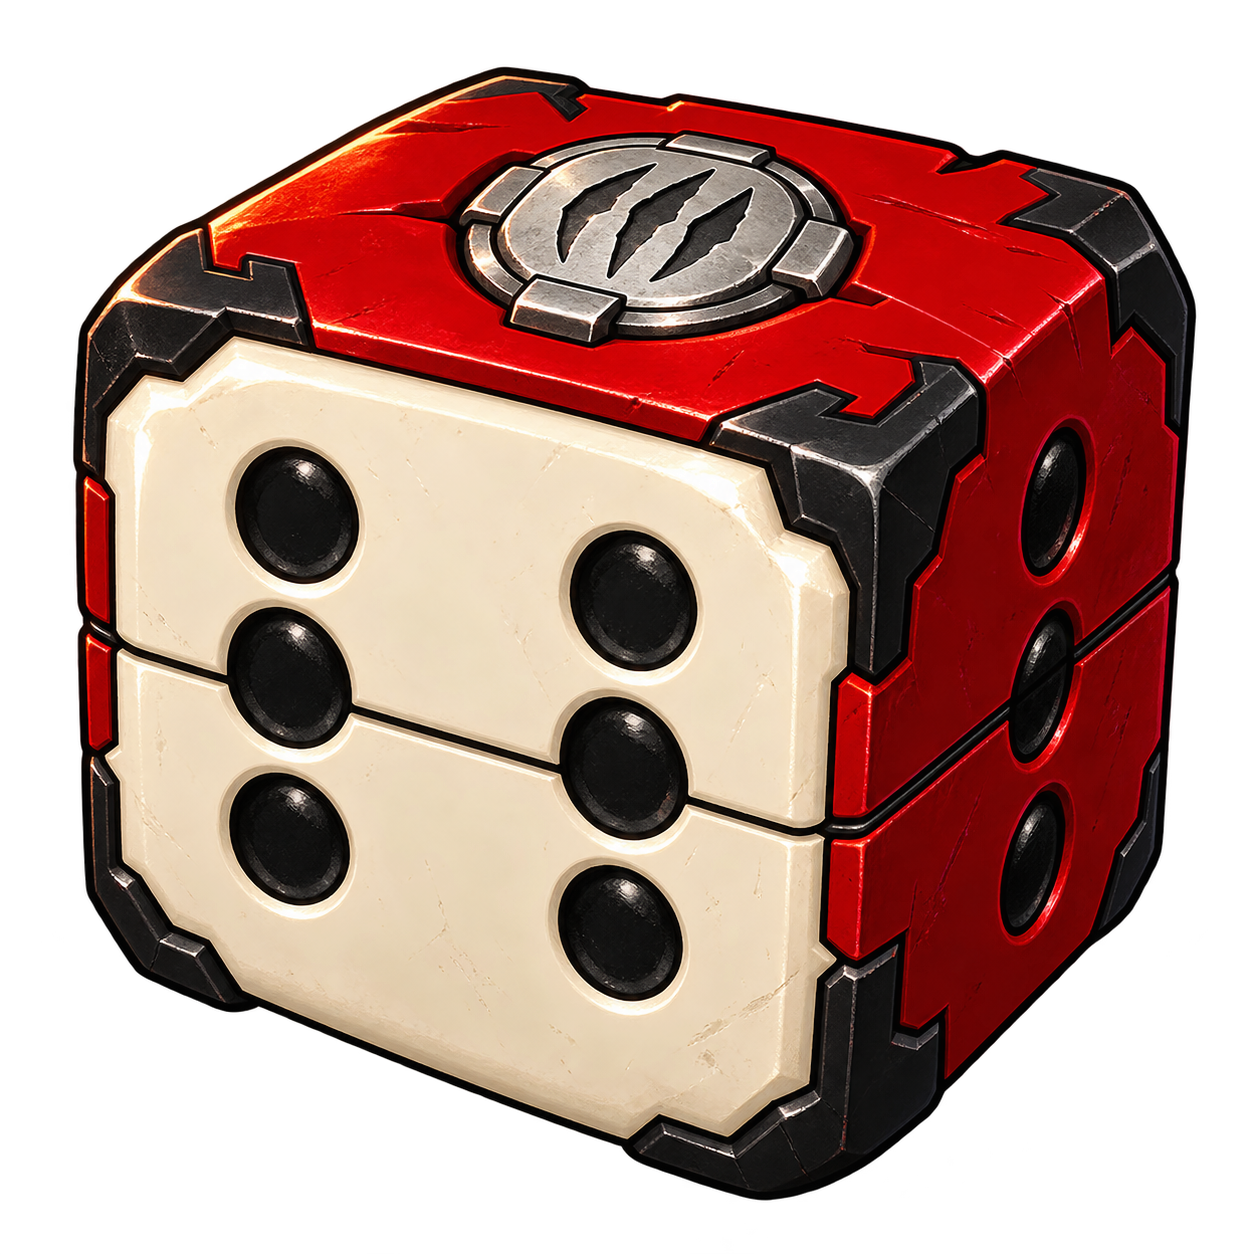
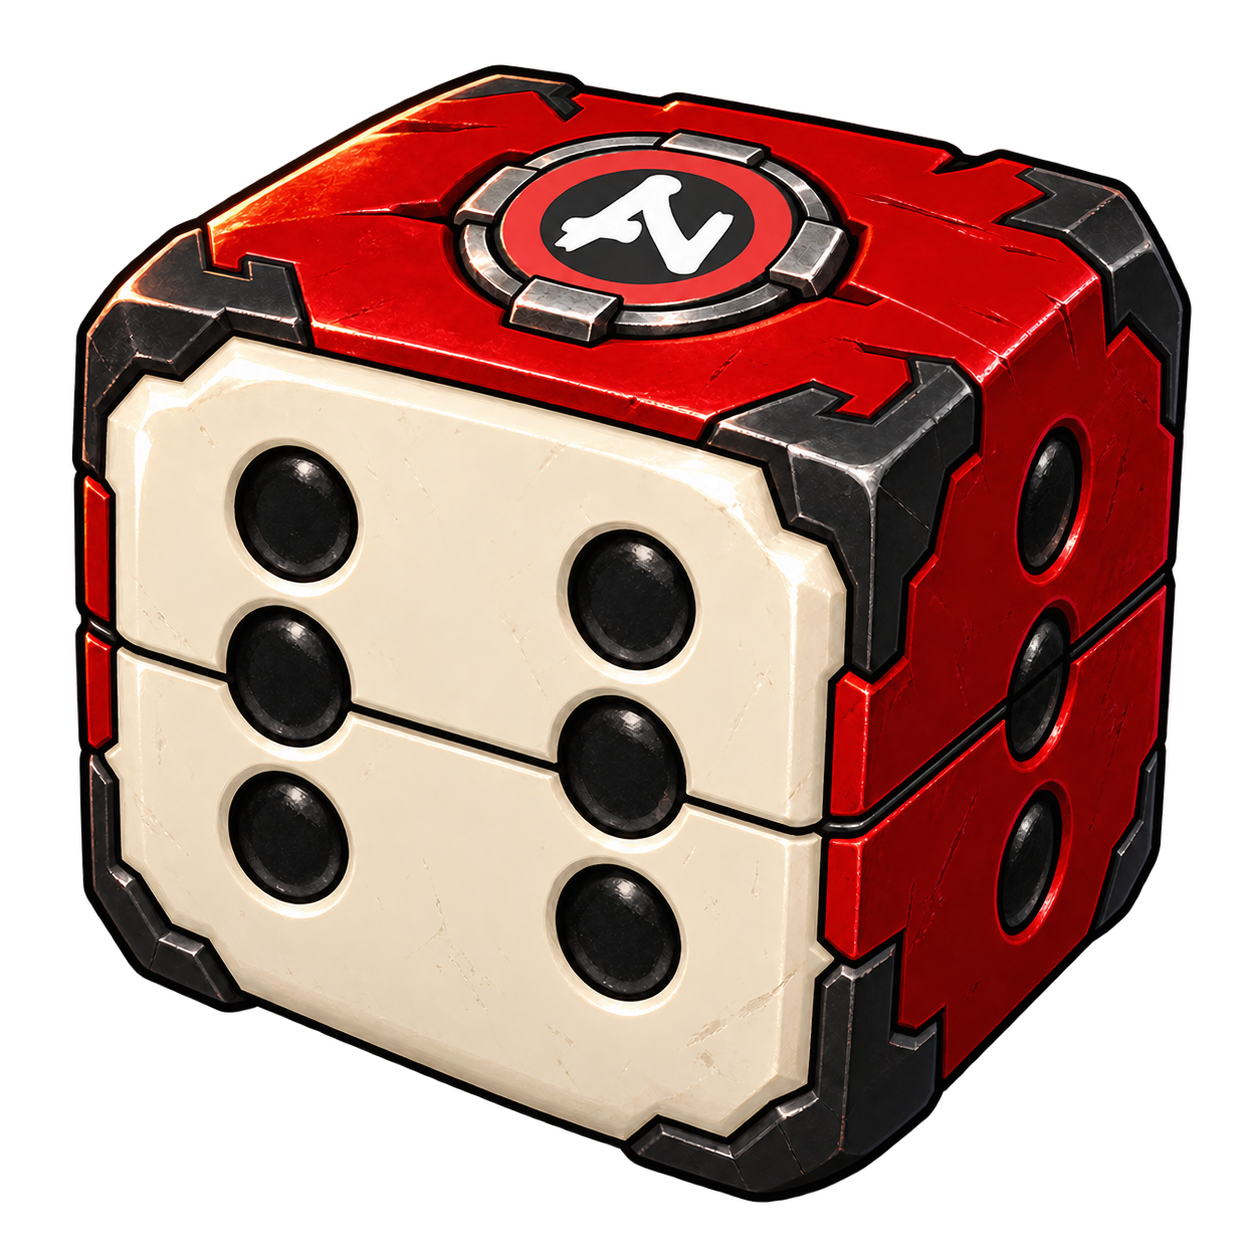
fix: refine capture dice emblem and split, exclude dice from battles

diff --git a/src/components/transitions/__tests__/SceneTransitionOverlay.test.tsx b/src/components/transitions/__tests__/SceneTransitionOverlay.test.tsx
@@ -1,0 +1,44 @@
+import { renderToStaticMarkup } from 'react-dom/server'
+import { describe, expect, it, vi } from 'vitest'
+import type { SceneId } from '@/types'
+import { assetUrl } from '@/utils/assetUrl'
+import { SceneTransitionOverlay } from '../SceneTransitionOverlay'
+import { getSceneTransitionProfile, TRANSITION_VIDEO_PATH } from '../sceneTransitionProfiles'
+
+function overlayMarkup(scena: SceneId, phase: 'cover' | 'reveal', startCovered = false) {
+  return renderToStaticMarkup(
+    <SceneTransitionOverlay
+      phase={phase}
+      startCovered={startCovered}
+      profile={getSceneTransitionProfile({ scena })}
+      onCovered={vi.fn()}
+      onRevealed={vi.fn()}
+    />,
+  )
+}
+
+describe('scene transition artwork selection', () => {
+  it.each(['cover', 'reveal'] as const)('never mounts a die at battle entry during %s', (phase) => {
+    for (const startCovered of [false, true]) {
+      const markup = overlayMarkup('battaglia', phase, startCovered)
+      expect(markup).toContain('data-transition-mode="battle-video"')
+      expect(markup).toContain('<video')
+      expect(markup).toContain(`src="${assetUrl(TRANSITION_VIDEO_PATH)}"`)
+      expect(markup).toContain('data-ready="false"')
+      expect(markup).not.toContain('data-transition-artwork')
+      expect(markup).not.toContain('arkamon-d6-closed.webp')
+      expect(markup).not.toContain('arkamon-d6-open.webp')
+      expect(markup).not.toContain('arka-d6-board')
+      expect(markup).not.toContain('arka-d6-fallback')
+    }
+  })
+
+  it.each(['mappa-principale', 'evoluzione'] as const)('retains both D6 poses for %s', (scena) => {
+    const markup = overlayMarkup(scena, 'cover')
+    expect(markup).toContain('data-transition-mode="arkamon-dice"')
+    expect(markup).toContain('data-transition-artwork="arkamon-d6"')
+    expect(markup).toContain('arkamon-d6-closed.webp')
+    expect(markup).toContain('arkamon-d6-open.webp')
+    expect(markup).not.toContain('<video')
+  })
+})

diff --git a/src/components/transitions/SceneTransitionLab.tsx b/src/components/transitions/SceneTransitionLab.tsx
@@ -102,7 +102,11 @@ export function SceneTransitionLab() {
           {!active && !showDestination ? (
             <div className="absolute inset-0 flex flex-col items-center justify-center gap-2 bg-slate-950/70 p-4">
               <img src={assetUrl('/ui/logo_arkamon.png')} alt="Arkamon" className="h-auto w-52 max-w-[55%] object-contain sm:w-72" />
-              <img src={assetUrl('/ui/transitions/arkamon-d6-closed.webp')} alt="Dado D6 cremisi e nero" className="h-auto w-36 max-w-[35%] object-contain sm:w-56" />
+              {choice === 'battle' ? (
+                <p className="px-4 py-6 text-5xl font-black italic text-red-300 sm:text-7xl">VS</p>
+              ) : (
+                <img src={assetUrl('/ui/transitions/arkamon-d6-closed.webp')} alt="Dado D6 cremisi e nero" className="h-auto w-36 max-w-[35%] object-contain sm:w-56" />
+              )}
             </div>
           ) : (
             <div className="absolute bottom-0 left-0 right-0 space-y-1 p-5 sm:p-8">
@@ -125,7 +129,7 @@ export function SceneTransitionLab() {
           ) : null}
         </div>
 
-        <p className="text-xs leading-relaxed text-slate-400">Il D6 custodisce la forza degli Arkamon e accompagna ogni nuova tappa. L’ingresso in battaglia conserva il video dedicato. L’anteprima non avvia una partita.</p>
+        <p className="text-xs leading-relaxed text-slate-400">Il D6 custodisce la forza degli Arkamon e accompagna le mappe e le schermate. L’ingresso in battaglia usa esclusivamente il video VS dedicato, con una breve copertura scura durante il caricamento. L’anteprima non avvia una partita.</p>
       </div>
     </main>
   )

diff --git a/src/components/transitions/__tests__/transitionArtwork.test.ts b/src/components/transitions/__tests__/transitionArtwork.test.ts
@@ -11,9 +11,18 @@ interface PoseProvenance {
   original_sha256: string
   runtime_sha256: string
 }
-const provenance = JSON.parse(readFileSync(join(process.cwd(), 'art-source/transitions/arkamon-d6/provenance.json'), 'utf8')) as { poses: PoseProvenance[] }
+const provenance = JSON.parse(readFileSync(join(process.cwd(), 'art-source/transitions/arkamon-d6/provenance.json'), 'utf8')) as {
+  reference: { path: string; sha256: string }
+  poses: PoseProvenance[]
+}
 
 describe('Arkamon capture D6 artwork', () => {
+  it('preserves the supplied emblem source alongside the paired artwork', () => {
+    const reference = readFileSync(join(process.cwd(), provenance.reference.path))
+    expect(createHash('sha256').update(reference).digest('hex')).toBe(provenance.reference.sha256)
[1 lines of base64/hex data omitted]
+  })
+
   it('retains distinct open and closed poses with their unmodified generated originals', () => {
     expect(provenance.poses.map((pose) => pose.pose).sort()).toEqual(['closed', 'open'])
     expect(new Set(provenance.poses.map((pose) => pose.runtime_sha256)).size).toBe(2)

diff --git a/src/components/transitions/SceneTransitionOverlay.tsx b/src/components/transitions/SceneTransitionOverlay.tsx
@@ -32,6 +32,7 @@ export function SceneTransitionOverlay({ phase, profile, startCovered, onCovered
     setFinishRequested(true)
   }, [])
   const videoFailed = useCallback(() => {
+    if (videoTerminal.current) return
     videoTerminal.current = true
     videoRef.current?.pause()
     setVideoReady(false)
@@ -90,7 +91,7 @@ export function SceneTransitionOverlay({ phase, profile, startCovered, onCovered
       style={style}
       aria-hidden="true"
     >
-      <ArkamonDiceArtwork />
+      {profile.mode === 'arkamon-dice' ? <ArkamonDiceArtwork /> : null}
       {profile.mode === 'battle-video' ? (
         <video
           ref={videoRef}

diff --git a/src/components/transitions/sceneTransitions.css b/src/components/transitions/sceneTransitions.css
@@ -28,7 +28,6 @@
 }
 
 .arka-scene-transition__video[data-ready='true'] { opacity: 1; }
-.arka-scene-transition[data-video-ready='true'] .arka-d6-artwork { visibility: hidden; }
 
 .arka-d6-artwork { position: absolute; inset: 0; }
 

diff --git a/art-source/transitions/arkamon-d6/prompts.md b/art-source/transitions/arkamon-d6/prompts.md
@@ -1,17 +1,22 @@
-# Dado di Arkamon — prompt di generazione
+# D6 Arkamon — simbolo fornito e apertura centrale
 
-Modalità: tool integrato `image_gen`, sfondo trasparente. Riferimento di palette e stile: logo ufficiale in `public/ui/logo_arkamon.png`, senza modificarlo.
+Modalità: generatore integrato image_gen, due modifiche successive dell'illustrazione, RGBA trasparente. Il simbolo fornito è conservato senza modifiche come reference-symbol.png. La normalizzazione automatica conserva il disegno.
 
-Use case: stylized-concept.
+## Posa chiusa: sostituzione del sigillo
 
-Asset type: production transparent 2D game transition hero sprite for Arkamon, a creature-collecting board game where encounters and combat use D6 dice. Create one polished, iconic physical D6 that also suggests a creature-capture device.
+Use case: precise-object-edit / compositing.
+Asset type: transparent RGBA game sprite, CLOSED pose of an existing Arkamon capture D6.
+Image 1 is the EDIT TARGET: preserve the exact physical crimson-and-charcoal cubic die, ivory front face with six black recessed pips in two columns of three, right face three pips, materials, proportions, lighting, perspective, camera and horizontal black midline seam.
+Image 2 is a supplied SYMBOL INSERT, not a style reference: faithfully reproduce this exact circular emblem, a crimson outer ring, black disk, and its distinctive white handwritten intertwined AN glyph. Replace ONLY the three claw scratches on the top metal medallion with that emblem. Seat it naturally on the existing circular metal clasp in perspective, keeping a slim silver frame. The white glyph must have the same shape as image 2, no claws and no invented letters.
+The cube remains completely CLOSED with the original seam in its middle. Do not move the seam upward. Change nothing else. All six front pips and three side pips remain as in target. Preserve simple readable silhouette and hand-painted stylized 3D videogame prop quality.
+One isolated centered die, square transparent canvas, full object with clear transparent margin, no cut corners, no floor or background, no new shadows outside the object, no text, numbers, VS, watermarks, neon rings or particles. Genuine RGBA transparency.
 
-Primary subject: a single large six-sided die in three-quarter view, front face and top and right face visible. Chunky beveled cubic silhouette, porcelain ivory front face with EXACTLY six recessed black pips arranged as two vertical columns of three. The upper shell is deep crimson red and edges are charcoal black, in the jagged bold red-and-black spirit of the attached Arkamon logo reference. On the TOP face place a small silver circular capture clasp with a subtle embossed three-claw creature motif. The RIGHT side has three recessed black pips. A thin mechanical seam runs horizontally around the cube, suggesting the cube can open like a capture capsule. It must be immediately readable both as a D6 and a creature capture device, without looking like a standard spherical Pokeball. Maintain clean simple silhouette readable at 200px.
+## Posa aperta: separazione in due metà sulla linea nera originale
 
-Style: high quality stylized videogame prop, hand-painted 3D look, crisp dark outlines, dramatic but restrained warm highlights, convincing depth, tactile painted metal and ivory enamel, premium collectible board-game object. No neon portal, no abstract energy rings.
-
-Composition: one isolated die centered on a SQUARE transparent canvas, fills about 70 percent of canvas width and height, ample clean transparent margin on all sides, no cropped corners. Front face points almost toward viewer with a slight top-down angle. No floating debris, no background, no ground plane or cast floor shadow, no lettering, no numbers, no VS text, no watermark. Genuine RGBA transparency, not a checkerboard graphic. The reference image is only a palette and brand-style reference; do not modify the logo or paste its entire word onto the die.
-
-## Posa aperta — modifica dell'immagine generata
-
-Use case: precise-object-edit. Asset type: second key pose of the same Arkamon D6 transition sprite, transparent RGBA. The supplied image is the edit target. Preserve this exact red-and-black creature-capture D6 identity, hand-painted stylized 3D quality, ivory enamel face, front EXACTLY six black pips, right three pips, silver three-claw medallion on the crimson top, camera angle, scale, proportions and material detail. Change only the opening state: the cube's existing upper half lifts upward a short distance along its existing mechanical horizontal seam, revealing a narrow luminous warm white/crimson interior gap like a capture capsule opening. Keep the lower half stationary and same position. Keep upper half fully aligned over lower half, without tilting, warping or rotating. No floating debris, no scene/background, no floor shadow, no text/numbers, no VS, no watermark, genuine transparent background. Square canvas with 8 percent clear transparent margin on every side; don't crop the lifted lid. Keep this readable as the same D6 in an opened mechanical pose, not a sphere and not a different prop.
+Use case: precise-object-edit.
+Asset type: OPEN key pose for the same physical Arkamon D6, RGBA transparency.
+Image 1 is the CLOSED EDIT TARGET with the new circular red/black/white symbol. Image 2 is the symbol reference, preserve that exact emblem on the top clasp.
+Change ONLY the opening state. The entire die MUST separate into TWO EQUAL-HEIGHT HALVES at the EXISTING BLACK HORIZONTAL MIDLINE SEAM visible across the middle of the ivory front face and right red face of image 1. The line passes across the middle row of pips. This is NOT a lid at the top quarter, NOT a cut below only the first row of pips, NOT a new extra seam. The upper block is a full HALF of the original cube including the red top, the top pips and upper portions of the middle pips. The lower block is a full HALF of the original cube including lower portions of the middle pips and the bottom pips. The middle-row circular indentations can be visibly bisected by the parting plane, like the existing black seam. Do not create or duplicate pips to hide the split.
+Lift the UPPER HALF straight up just a short distance (about 8% of original cube height), while keeping the lower half stationary and both halves aligned with the same perspective and cube footprint. A narrow warm ivory/crimson illuminated mechanical interior gap should appear precisely where the existing central black line was. The lower block must NOT retain another black seam lower down: the one original seam becomes the open gap. Maintain one obvious halfway split, exactly two rigid equal-height pieces.
+Preserve the SAME camera, three-quarter view, crimson red and charcoal corners, ivory enamel front, textured materials, warm lighting, silhouette and exact top emblem of image 1. This is a paired animation key pose, so keep the bottom and sides in the same position and scale, only the upper HALF moves. Preserve total front six pips and right three pips, counting any bisected middle pips as the original single pips. Do not repaint the emblem or turn the cube into a spherical device.
+One isolated die on square genuine transparent background, ample clear margin, full raised half visible, no clipped parts, no floating debris, ground, scene, captions, watermarks, VS or glow outside the seam.

diff --git a/docs/scene-transitions.md b/docs/scene-transitions.md
@@ -1,6 +1,6 @@
 # Transizioni Arkamon: il D6 custodisce la creatura
 
-La transizione tra scene usa un oggetto riconoscibile: un dado D6 cremisi e nero, con sei punti sulla faccia chiara e un sigillo ad artigli sul coperchio. Il dado entra con un lancio, rimbalza, si assesta e si apre. Un breve bagliore accompagna il logo ufficiale e l'arrivo alla nuova scena. Il percorso a caselle sullo sfondo collega l'oggetto all'esplorazione da boardgame.
+La transizione tra scene usa un oggetto riconoscibile: un dado D6 cremisi e nero, con sei punti sulla faccia chiara e il simbolo circolare fornito dall'utente sul medaglione superiore (anello rosso, centro nero e segno bianco). Il dado entra con un lancio, rimbalza, si assesta e si apre esattamente lungo la linea nera centrale originale. Si solleva l'intera metà superiore; le fossette attraversate dalla linea vengono divise tra le due metà, senza un secondo taglio più in alto. Un breve bagliore accompagna il logo ufficiale e l'arrivo alla nuova scena. Il percorso a caselle sullo sfondo collega l'oggetto all'esplorazione da boardgame.
 
 Il movimento è decorativo: non estrae risultati, non consuma dadi o turni e non cambia lo stato della partita. Il simbolo unisce i due elementi del gioco: le creature custodite e il viaggio guidato dai D6.
 
@@ -12,7 +12,7 @@ La versione ibernata non appare nemmeno come riserva in caso di errore del video
 
 ## Illustrazioni e risorse
 
-Le due pose sono state create con il generatore di immagini integrato. Gli originali, i prompt completi e la provenienza sono in [art-source/transitions/arkamon-d6](../art-source/transitions/arkamon-d6/prompts.md). La normalizzazione conserva il disegno: proporzione originale, margini trasparenti su una tela 1024 × 1024 e WebP senza perdita.
+Le due pose sono state modificate con il generatore di immagini integrato. Gli originali, i prompt completi, il riferimento del simbolo conservato senza modifiche e la provenienza sono in [art-source/transitions/arkamon-d6](../art-source/transitions/arkamon-d6/prompts.md). La normalizzazione conserva il disegno: stesso fattore di scala per entrambe le pose, margini trasparenti su una tela 1024 × 1024 e WebP senza perdita.
 
 Le risorse usate dal gioco sono:
 
@@ -28,7 +28,7 @@ Il coordinatore delle scene mantiene l'ultima scena presentata durante la copert
 
 - Mappe, città, laboratorio, deposito e schermate: D6, circa 1,84 secondi complessivi.
 - Evoluzione: stesso D6, circa 2,14 secondi, leggero aumento della luminosità senza cambiare il colore del marchio.
-- Battaglia: mantiene il segmento finale del video VS esistente (secondi 5–8). Il D6 copre l'attesa del video; un limite temporale o un errore libera sempre la navigazione.
+- Battaglia: mantiene soltanto il segmento finale del video VS esistente (secondi 5–8). Il D6 non viene montato e non compare durante copertura, attesa, riproduzione o errore. Una copertura scura accompagna l'attesa; un limite temporale o un errore libera sempre la navigazione senza introdurre l'animazione del dado.
 
 La preferenza di movimento ridotto viene rispettata dal coordinatore: il cambio scena è immediato e non riproduce la transizione. L'anteprima offre in quel caso una vista statica.
 
@@ -36,4 +36,4 @@ La preferenza di movimento ridotto viene rispettata dal coordinatore: il cambio 
 
 In sviluppo aprire `http://localhost:3000/#transition-lab`. Il pulsante **Riproduci** mostra l'overlay reale per mappe, evoluzione o battaglia. La pagina non avvia una partita e non cambia il salvataggio. Il pulsante e il selettore restano disabilitati durante la riproduzione.
 
-La pagina è riservata allo sviluppo, come il VFX Lab. Per la verifica eseguire `npm test` e `npm run build`, controllare la riproduzione nel browser e un passaggio reale dal menu al laboratorio. I test dell'archivio confrontano i nove file byte per byte e controllano che la vecchia grafica non sia attiva. I test delle immagini verificano provenienza, integrità e trasparenza effettiva dei WebP.
+La pagina è riservata allo sviluppo, come il VFX Lab. Per la verifica eseguire `npm test` e `npm run build` e controllare la riproduzione nel browser. I test dell'archivio confrontano i nove file byte per byte e controllano che la vecchia grafica non sia attiva. I test delle immagini verificano provenienza, integrità, simbolo di riferimento e trasparenza effettiva dei WebP. I test di rendering dell'overlay verificano che la battaglia non monti le immagini o altri elementi del dado e che mappe ed evoluzione mantengano le due pose.
